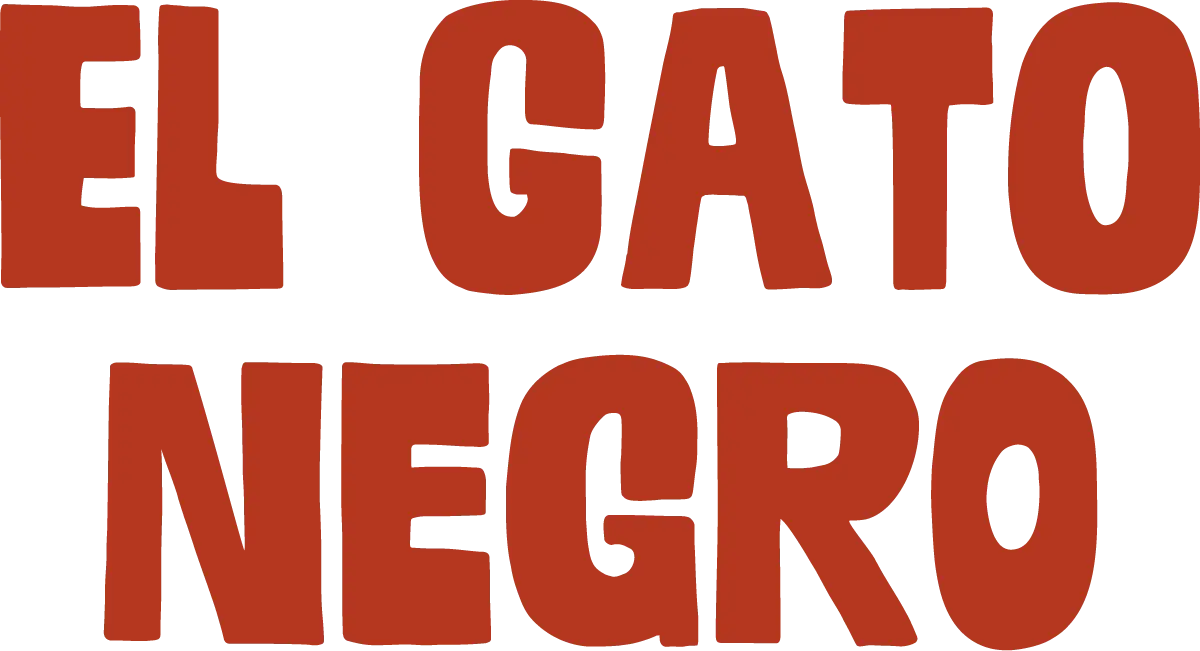
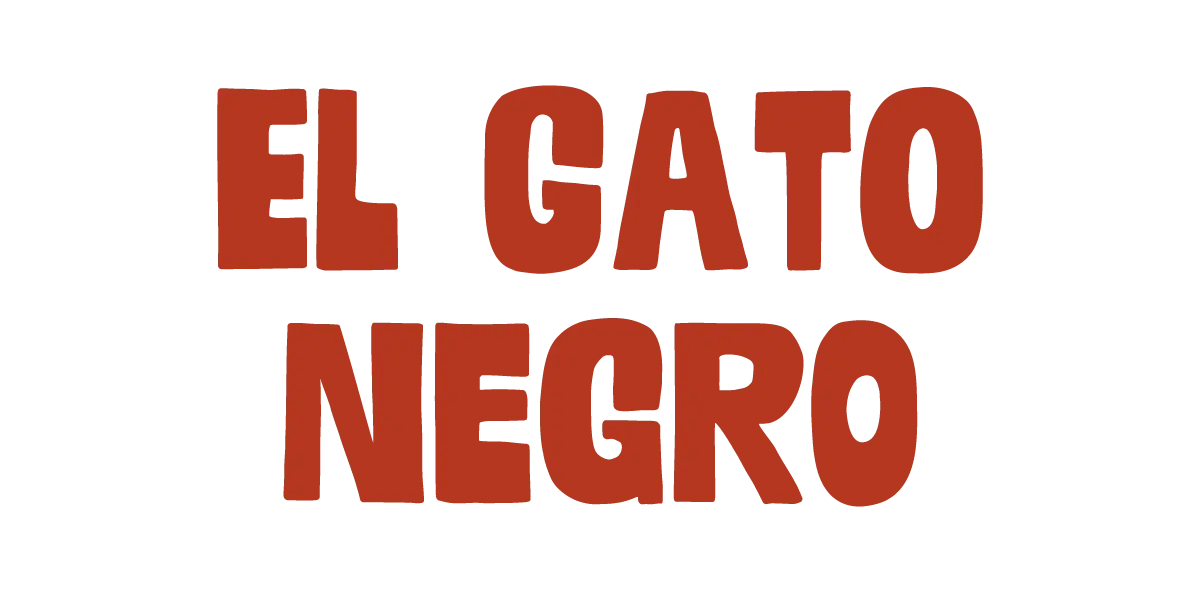
fix: media page — hide brand guide PDF section, restore wordmark PNG
- Brand guide PDF download section wrapped in JSX comment with re-enable
  instructions; unblocks /media for launch until Phil delivers the PDF
- Restores eng-wordmark-redish1200w.png that was 404ing on /media (copied
  from brand kit into public/media-kit/)

diff --git a/app/(site)/(pages)/media/page.tsx b/app/(site)/(pages)/media/page.tsx
@@ -1,6 +1,7 @@
 import type { Metadata } from "next";
 import Image from "next/image";
-import { Download, FileText } from "lucide-react";
+// FileText import will be needed again when the Brand Guideline PDF CTA section below is uncommented.
+import { Download } from "lucide-react";
 
 // ── Metadata ─────────────────────────────────────────────────────────────────
 
@@ -94,7 +95,7 @@ export default function MediaPage() {
           </h1>
           <p className="font-sans text-sm text-brand-grey/60 max-w-lg mt-4 leading-relaxed">
             Logos, colors, and brand guidelines for partners, press, and collaborators.
-            Download what you need, or grab the full brand guideline PDF below.
+            Download what you need.
           </p>
         </div>
       </section>
@@ -239,7 +240,7 @@ export default function MediaPage() {
         </div>
       </section>
 
-      {/* ── Brand Guideline PDF CTA ───────────────────────────────── */}
+      {/* ── Brand Guideline PDF CTA — HIDDEN until Phil delivers the actual PDF. Markup preserved intentionally; re-enable by uncommenting. ─────────────
       <section className="bg-brand-black border-t border-brand-grey/10">
         <div className="relative z-10 max-w-7xl mx-auto px-4 md:px-6 py-16 md:py-24 flex flex-col items-center text-center">
           <div className="flex h-14 w-14 items-center justify-center border border-brand-grey/15 mb-6">
@@ -262,6 +263,7 @@ export default function MediaPage() {
           </a>
         </div>
       </section>
+      */}
     </>
   );
 }
